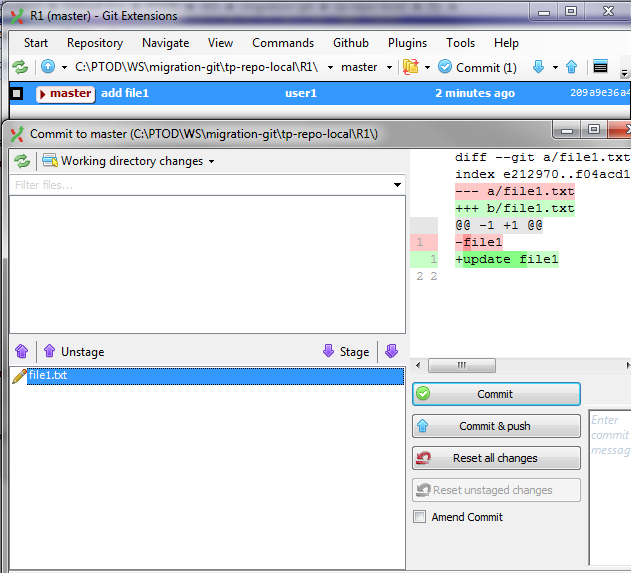
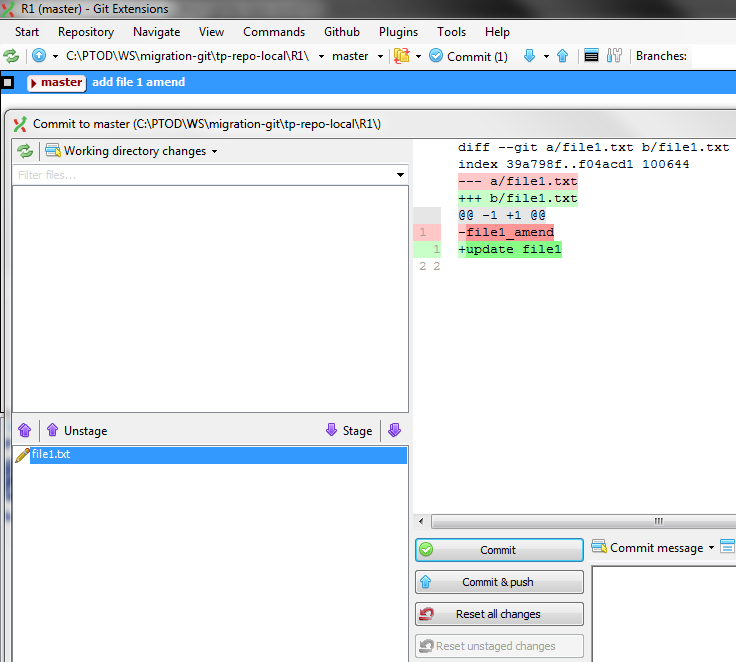
Ajout du sommit --amend dans le TP1

diff --git a/session-it-spi/tp.html b/session-it-spi/tp.html
@@ -88,21 +88,23 @@ table.CodeRay td.code>pre{padding:0}
 .CodeRay .change .change{color:#66f}
 .CodeRay .head .head{color:#f4f}</style><link href="reveal.js-3.1.0/lib/css/zenburn.css" rel="stylesheet" /><script>document.write( '<link rel="stylesheet" href="reveal.js-3.1.0/css/print/' + ( window.location.search.match( /print-pdf/gi ) ? 'pdf' : 'paper' ) + '.css" type="text/css" media="print">' );</script></head><body><div class="reveal"><div class="slides"><section class="title" data-state="title"><h1>TP GIT</h1><div class="preamble"><div class="imageblock" style=""><img src="images/git_black.png" alt="git" /></div>
 <div class="paragraph"><p>coding dojo IT/SPI</p></div></div></section>
-<section><section id="_local_repository"><h2>Local repository</h2></section><section id="_exo"><h2>exo</h2><div class="ulist"><ul><li class="fragment"><p>Créer un repo R1</p></li><li class="fragment"><p>Valoriser le user local à user1</p></li><li class="fragment"><p>Indexer (stage) un fichier file1.txt</p></li><li class="fragment"><p>Commiter le fichier file1.txt</p></li><li class="fragment"><p>Modifier et indexer le fichier file1.txt</p></li><li class="fragment"><p>Cloner le repo R1 en un repo R2</p></li><li class="fragment"><p>Vérifier que dans R2 file1.txt ne contient pas la modification</p></li><li class="fragment"><p>Constater l&#8217;unique commit dans le repo R2</p></li></ul></div></section><section id="_solution"><h2>solution</h2><div class="listingblock"><div class="content"><pre class="CodeRay"><code>$ git init R1
+<section><section id="_local_repository"><h2>Local repository</h2></section><section id="_exo"><h2>exo</h2><div class="ulist"><ul><li class="fragment"><p>Créer un repo R1</p></li><li class="fragment"><p>Valoriser le user local à user1</p></li><li class="fragment"><p>Indexer et commiter un fichier file1.txt</p></li><li class="fragment"><p>Modifier, indexer et commiter (amender le dernier commit) le fichier file1.txt</p></li><li class="fragment"><p>Modifier et indexer le fichier file1.txt</p></li><li class="fragment"><p>Cloner le repo R1 en un repo R2</p></li><li class="fragment"><p>Vérifier dans R2 que file1.txt ne contienne pas la modification</p></li><li class="fragment"><p>Constater l&#8217;unique commit dans le repo R2</p></li></ul></div></section><section id="_solution_1_2"><h2>solution (1/2)</h2><div class="listingblock"><div class="content"><pre class="CodeRay"><code>$ git init R1
 $ cd R1
 R1 (master) $ git config user.name user1
 R1 (master) $ echo "file1" &gt; file1.txt
-R1 (master) $ cat file1.txt //file1
 R1 (master) $ git add .
 R1 (master) $ git commit -m"add file1"
+R1 (master) $ echo "file1_amend" &gt; file1.txt
+R1 (master) $ git add .
+R1 (master) $ git commit --amend -m"add file 1 amend"
 R1 (master) $ echo "update file1" &gt; file1.txt
-R1 (master) $ cat file1.txt //update file1
 R1 (master) $ git add .
 R1 (master) $ cd ..
-$ git clone ./R1/ R2
-$ cd R2
-R2 (master) $ cat file1.txt //file1
-R2 (master) $ git log</code></pre></div></div></section><section id="_solution_visualisation_des_repos"><h2>Solution visualisation des repos</h2><div class="paragraph"><p><span class="image"><img src="images/tp1-exo1-R1.png" alt="tp1 exo1 R1" width="450" height="400" /></span>
+$ git clone ./R1/ R2</code></pre></div></div></section><section id="_solution_2_2"><h2>solution (2/2)</h2><div class="listingblock"><div class="content"><pre class="CodeRay"><code>$ cd R2
+R2 (master) $ cat file1.txt
+ file1_amend
+R2 (master) $ git log --oneline
+ 6614d6d add file 1 amend</code></pre></div></div></section><section id="_solution_visualisation_des_repos"><h2>Solution visualisation des repos</h2><div class="paragraph"><p><span class="image"><img src="images/tp1-exo1-R1.png" alt="tp1 exo1 R1" width="450" height="400" /></span>
 <span class="image"><img src="images/tp1-exo1-R2.png" alt="tp1 exo1 R2" width="450" height="400" /></span></p></div></section></section>
 <section><section id="_repo_distant"><h2>repo distant</h2></section><section id="_exo_1"><h2>exo 1</h2><div class="ulist"><ul><li class="fragment"><p>Créer un repo "bare": git init repo-shared --bare</p></li><li class="fragment"><p>Cloner ce repo-shared dans un repo local nommé RL1</p></li><li class="fragment"><p>Ajouter et commiter un fichier file1.txt dans RL1</p></li><li class="fragment"><p>Créer une branche develop dans RL1</p></li><li class="fragment"><p>Modifier et commiter file1.txt dans develop</p></li><li class="fragment"><p>"Pusher" master et develop dans repo-shared</p></li><li class="fragment"><p>Visualiser la nouvelle branche dans repo-shared</p></li></ul></div></section><section id="_solution_exo_1"><h2>solution exo 1</h2><div class="listingblock"><div class="content"><pre class="CodeRay"><code>$ git init repo-shared --bare
 $ git clone ./repo-shared RL1
